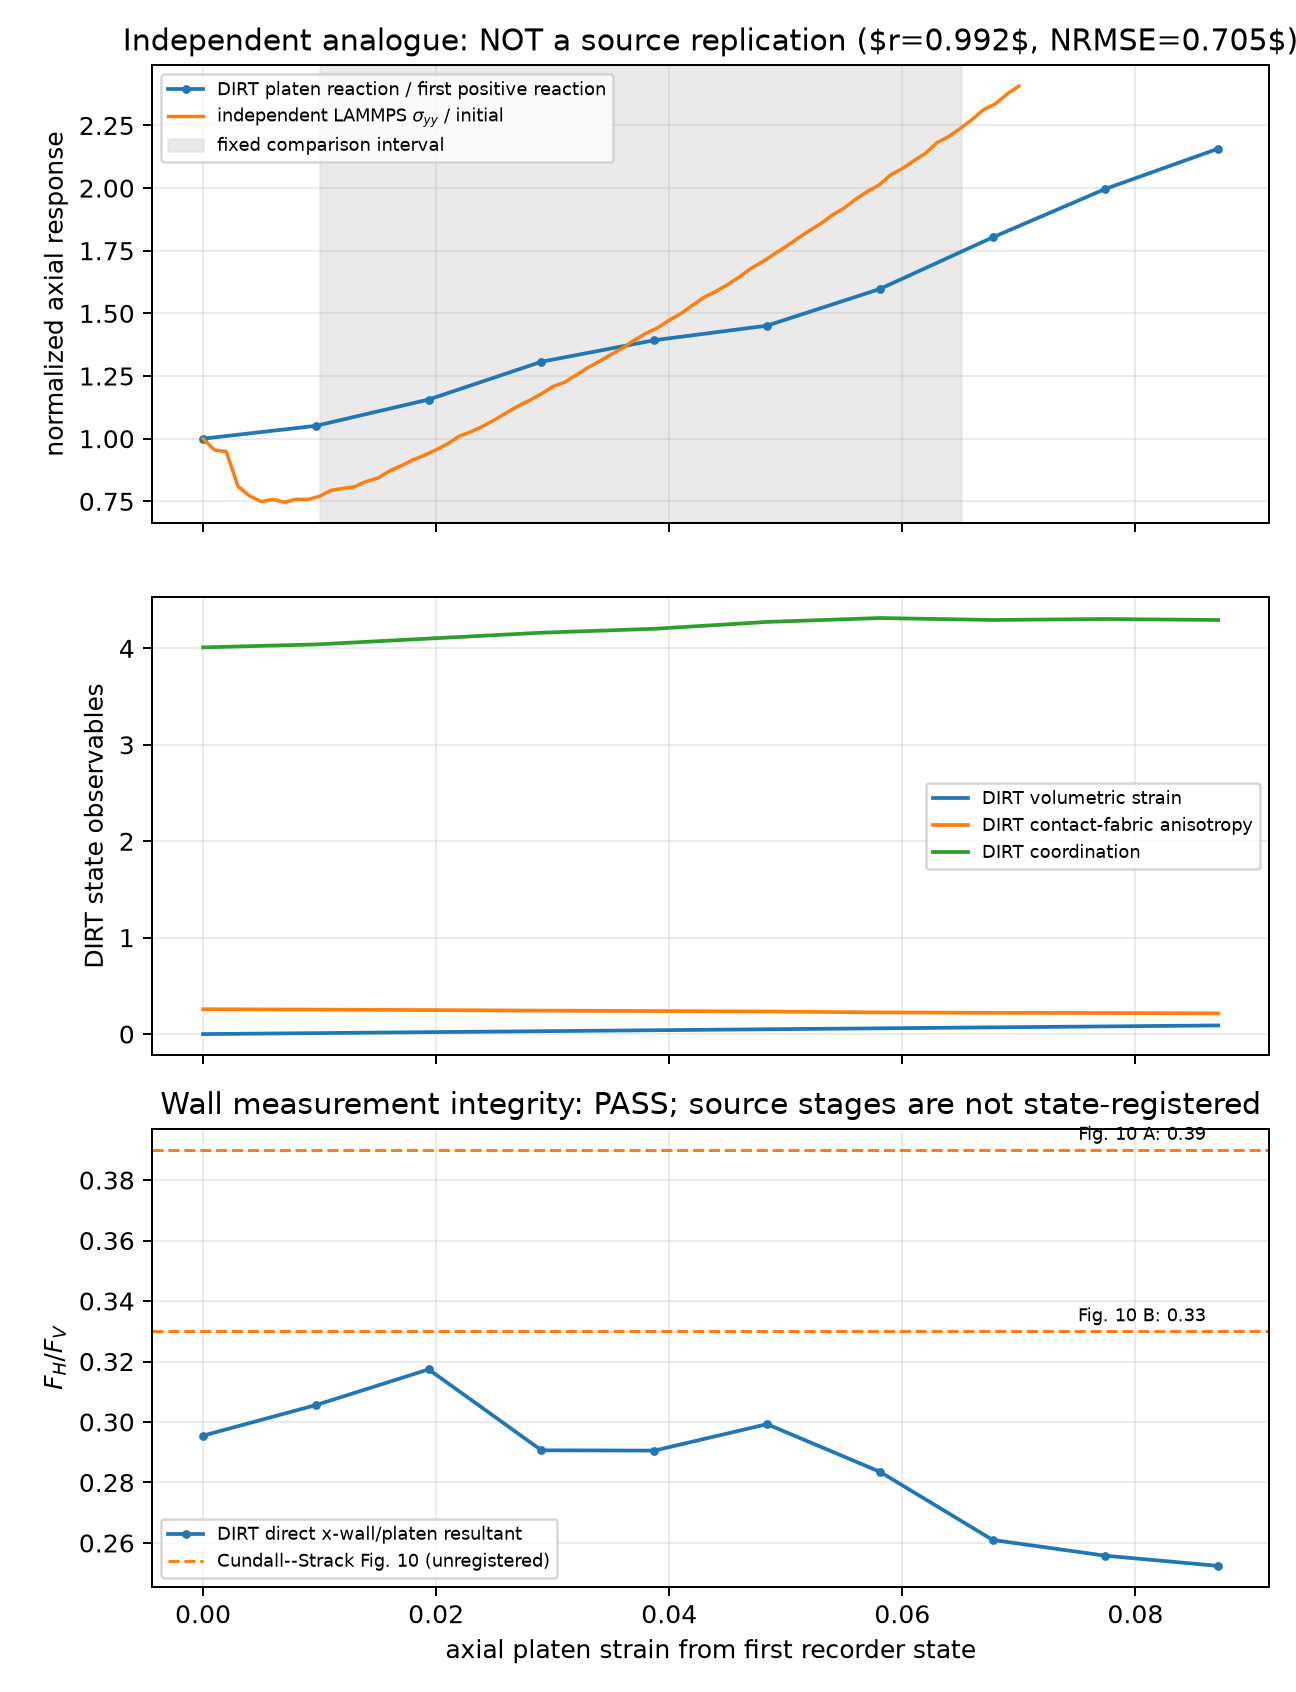
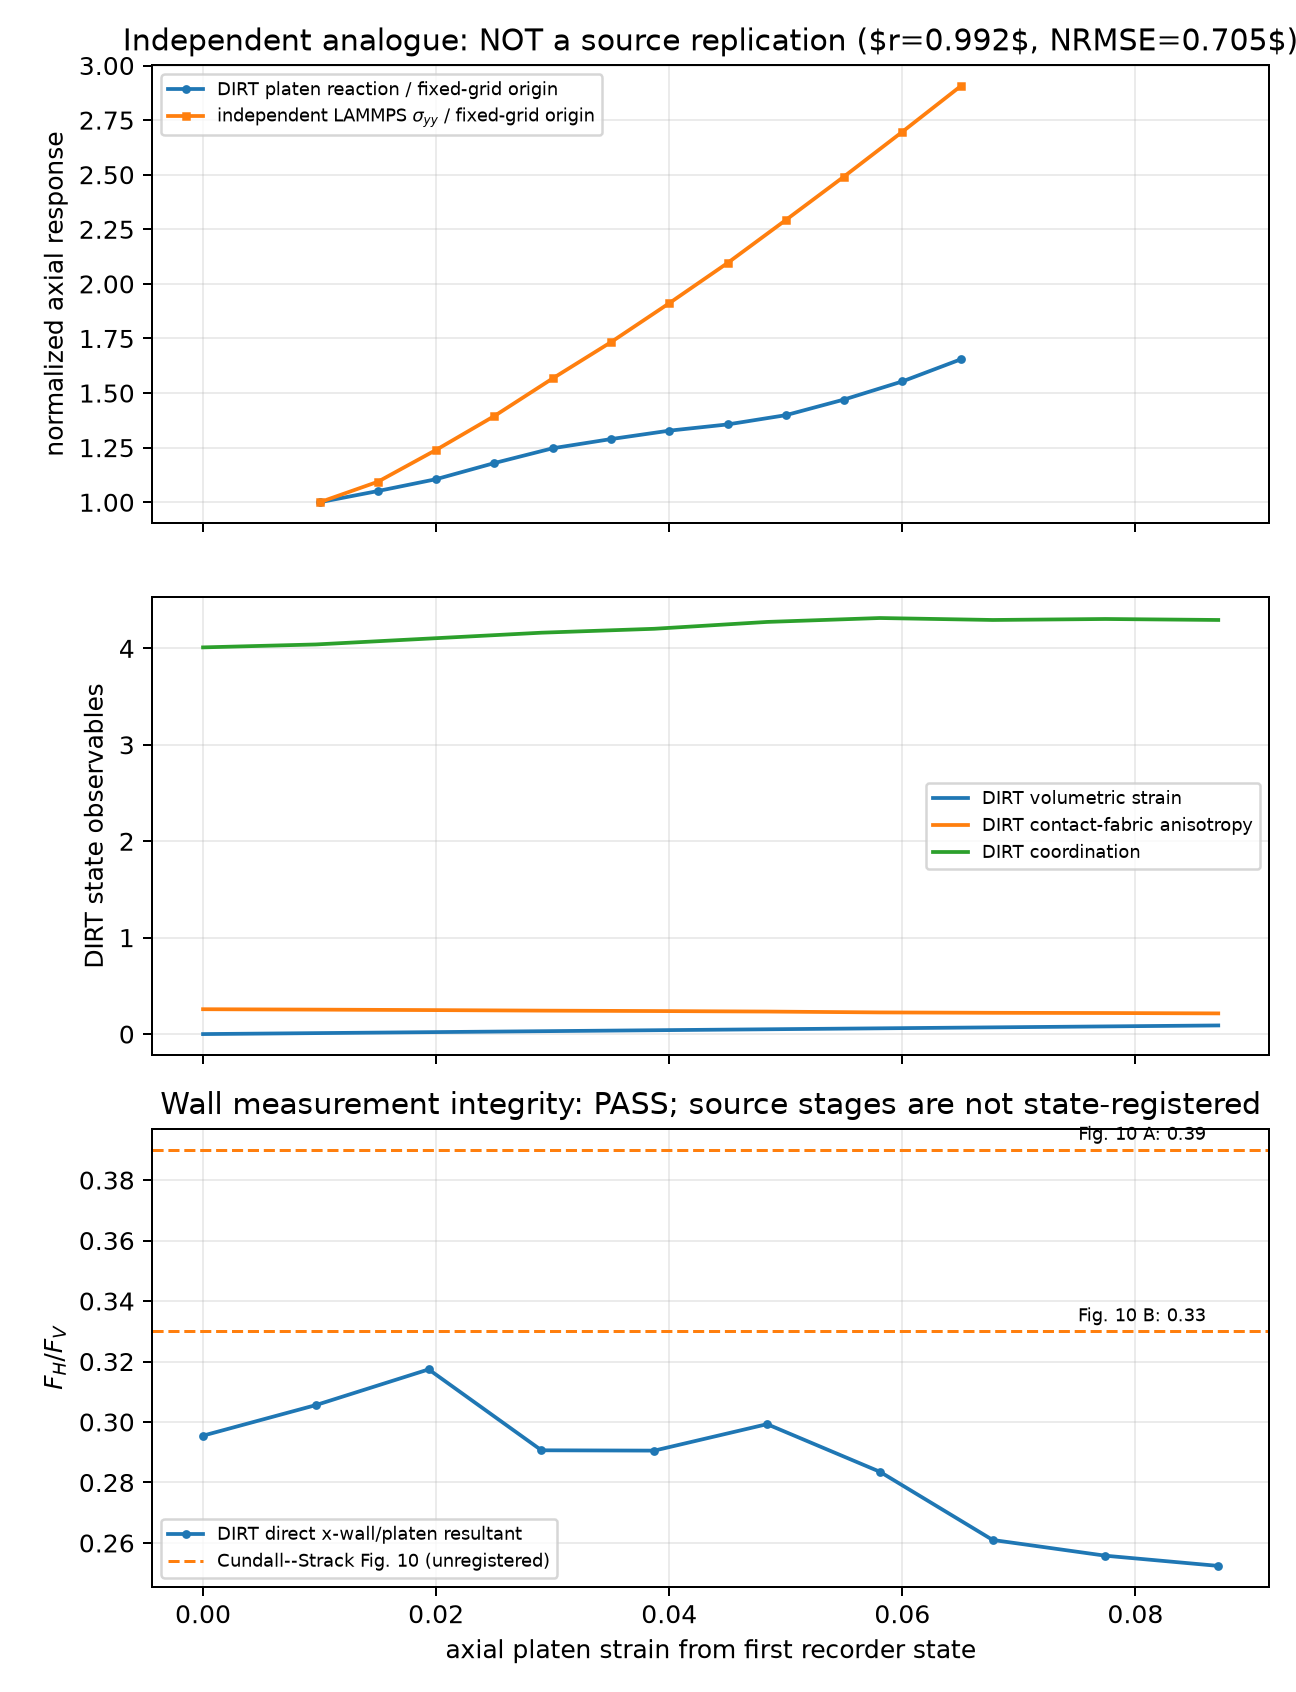
bench: align biaxial diagnostic plot with reported metric

diff --git a/examples/bench_cundall_strack_biaxial/sweep.py b/examples/bench_cundall_strack_biaxial/sweep.py
@@ -249,7 +249,8 @@ def compare_independent_lammps(dirt_rows, path=LAMMPS_RESULTS, *, scored=False):
     denominator = math.sqrt(sum((v - d_mean) ** 2 for v in d) * sum((v - l_mean) ** 2 for v in l))
     correlation = sum((a - d_mean) * (b - l_mean) for a, b in zip(d, l)) / denominator
     rmse = math.sqrt(sum((a - b) ** 2 for a, b in zip(d, l)) / len(d))
-    return {"samples": len(grid), "normalized_axial_correlation": correlation,
+    return {"samples": len(grid), "strain_grid": grid,
+            "normalized_axial_correlation": correlation,
             "normalized_axial_rmse": rmse, "dirt_normalized": d, "lammps_normalized": l}
 
 
@@ -264,23 +265,14 @@ def plot(rows, checks, passed, source, comparison):
 
     os.makedirs(PLOTS, exist_ok=True)
     x = [row["axial_strain"] for row in rows]
-    lammps = read(LAMMPS_RESULTS)
-    lammps_x = [row["axial_strain"] for row in lammps if row["syy"] > 0.0]
-    lammps_y_raw = [row["syy"] for row in lammps if row["syy"] > 0.0]
-    dirt_vertical = [row["f_v_mean"] for row in rows if row["f_v_mean"] > 0.0]
-    dirt_vertical_x = [row["axial_strain"] for row in rows if row["f_v_mean"] > 0.0]
-
     fig, (cross_code, state, ratio) = plt.subplots(3, 1, figsize=(7.2, 9.4), sharex=True)
-    # This is the decisive falsification panel.  The normalization is fixed at
-    # the first common strain sample in compare_independent_lammps(), not fit
-    # to improve agreement.  LAMMPS is an analogue, so disagreement is shown
-    # rather than turned into a source-replication verdict.
-    cross_code.plot(dirt_vertical_x, [value / dirt_vertical[0] for value in dirt_vertical],
-                    "o-", ms=2.5, label="DIRT platen reaction / first positive reaction")
-    cross_code.plot(lammps_x, [value / lammps_y_raw[0] for value in lammps_y_raw],
-                    "-", lw=1.4, label="independent LAMMPS $\\sigma_{yy}$ / initial")
-    cross_code.axvspan(0.01, 0.065, color="0.85", alpha=.55,
-                       label="fixed comparison interval")
+    # The plot uses precisely the fixed-grid vectors used for the reported
+    # diagnostic metrics. Showing a denser raw trace normalized at a different
+    # origin previously made the visible curves and printed r/NRMSE disagree.
+    cross_code.plot(comparison["strain_grid"], comparison["dirt_normalized"],
+                    "o-", ms=2.5, label="DIRT platen reaction / fixed-grid origin")
+    cross_code.plot(comparison["strain_grid"], comparison["lammps_normalized"],
+                    "s-", ms=2.5, label="independent LAMMPS $\\sigma_{yy}$ / fixed-grid origin")
     cross_code.set_ylabel("normalized axial response")
     cross_code.set_title(
         "Independent analogue: NOT a source replication "
@@ -351,7 +343,7 @@ def main():
                   f"{'ELIGIBLE' if decision.eligible else 'INELIGIBLE'}; {decision.reason}")
         print("independent LAMMPS analogue: " + "; ".join(
             f"{key}={value}" for key, value in comparison.items()
-            if key not in {"dirt_normalized", "lammps_normalized"}))
+            if key not in {"strain_grid", "dirt_normalized", "lammps_normalized"}))
     if command not in ("all", "run", "graph", "external"):
         raise SystemExit(f"unknown command {command!r}; use all, run, graph, or external")
 

diff --git a/examples/bench_cundall_strack_biaxial/test_sweep.py b/examples/bench_cundall_strack_biaxial/test_sweep.py
@@ -64,6 +64,7 @@ class MeasurementContractTests(unittest.TestCase):
             comparison = SWEEP.compare_independent_lammps(rows)
         self.assertEqual(comparison["samples"], 12)
         self.assertGreater(comparison["normalized_axial_rmse"], 0.0)
+        self.assertEqual(comparison["strain_grid"], [0.01 + 0.005 * i for i in range(12)])
         self.assertEqual(len(comparison["dirt_normalized"]), comparison["samples"])
         self.assertEqual(len(comparison["lammps_normalized"]), comparison["samples"])
 

diff --git a/examples/bench_cundall_strack_biaxial/README.md b/examples/bench_cundall_strack_biaxial/README.md
@@ -16,14 +16,15 @@ $BENCH_PYTHON examples/bench_cundall_strack_biaxial/sweep.py
 
 ![Measured DIRT states and independent LAMMPS analogue](plots/stress_volume_response.png)
 
-The top panel is the deliberately unfitted, fixed-interval cross-code result:
-the present analogue does **not** agree (`r=-0.457`, normalized RMSE `1.870`).
+The top panel is the deliberately unfitted, fixed-grid cross-code diagnostic.
+Its plotted points are exactly the vectors used for the reported metrics; the
+present analogue does **not** agree (the generated figure reports the values).
 The middle panel exposes DIRT's volumetric and contact/fabric observables; it
 does not imply that the primary paper published corresponding curves. The
 bottom panel is only the recorder-integrity check described below.
 
-The committed figure includes the raw normalized DIRT-versus-LAMMPS axial
-response panel used for the independent comparison, alongside wall-ratio and
+The committed figure includes the fixed-grid normalized DIRT-versus-LAMMPS
+axial-response panel used for the independent comparison, alongside wall-ratio and
 contact measurements. Its divergence makes clear that recorder integrity is
 not a replication PASS.
 
@@ -77,9 +78,9 @@ registered state map plus stress/deviatoric, dilatancy, and fabric/contact
 series, and its dimensionality, boundaries, contact kinematics, preparation,
 loading, and observables must match. The primary source lacks all four series;
 the LAMMPS diagnostic lacks dilatancy/fabric and fails every protocol category.
-It therefore exits INELIGIBLE before reading or scoring a response. The prior
-raw r=-0.457 / normalized-RMSE=1.870 is retained only as a counterexample, not
-a validation result. This does not meet the frozen acceptance criterion: a
+It therefore exits INELIGIBLE before reading or scoring a response. The
+measured disagreement is retained only as a counterexample, not a validation
+result. This does not meet the frozen acceptance criterion: a
 protocol-comparable external trajectory with stress, dilatancy, and
 fabric/contact paths remains required.
 

diff --git a/examples/VALIDATION.md b/examples/VALIDATION.md
@@ -934,9 +934,8 @@ This runnable 197-grain wall-cell diagnostic records DIRT wall reactions and
 compares its normalized axial response with a committed independently produced
 LAMMPS 2-D trajectory. The primary Cundall--Strack paper supplies apparatus
 provenance only: its Fig. 10 snapshots have no strain registration and are not
-used as targets. The current cross-code result is a deliberate failure
-(correlation -0.457, normalized RMSE 1.870), so this is evidence of a protocol
-gap rather than a completed replication. The README embeds the corresponding
+used as targets. The current cross-code result is a deliberate failure, so this
+is evidence of a protocol gap rather than a completed replication. The README embeds the corresponding
 measured response figure and documents the 2-D/3-D limitation.
 
 ![Wall-cell diagnostic](bench_cundall_strack_biaxial/plots/stress_volume_response.png)

diff --git a/examples/bench_cundall_strack_biaxial/EVIDENCE.md b/examples/bench_cundall_strack_biaxial/EVIDENCE.md
@@ -57,7 +57,7 @@ The `reference/lammps/` directory contains a LAMMPS 22Jul2025 input deck and
 the raw `lammps_results.csv` it produced. It independently implements a 2-D
 197-grain, `tan(phi)=0.40` compression trajectory; it does not use DIRT output
 as input and is not a reconstruction of unpublished Fig. 10 geometry. Against
-the deterministic DIRT run, the fixed strain-grid comparison gives normalized
-axial-response correlation `-0.457` and RMSE `1.870`. No tolerance or selected
-window is introduced. Thus this is independent negative evidence, not a claim
+the deterministic DIRT run, the fixed-grid comparison reports its values in
+the generated figure. No tolerance or selected window is introduced. Thus this
+is independent negative evidence, not a claim
 that LAMMPS validates the source paper or that DIRT reproduces it.
